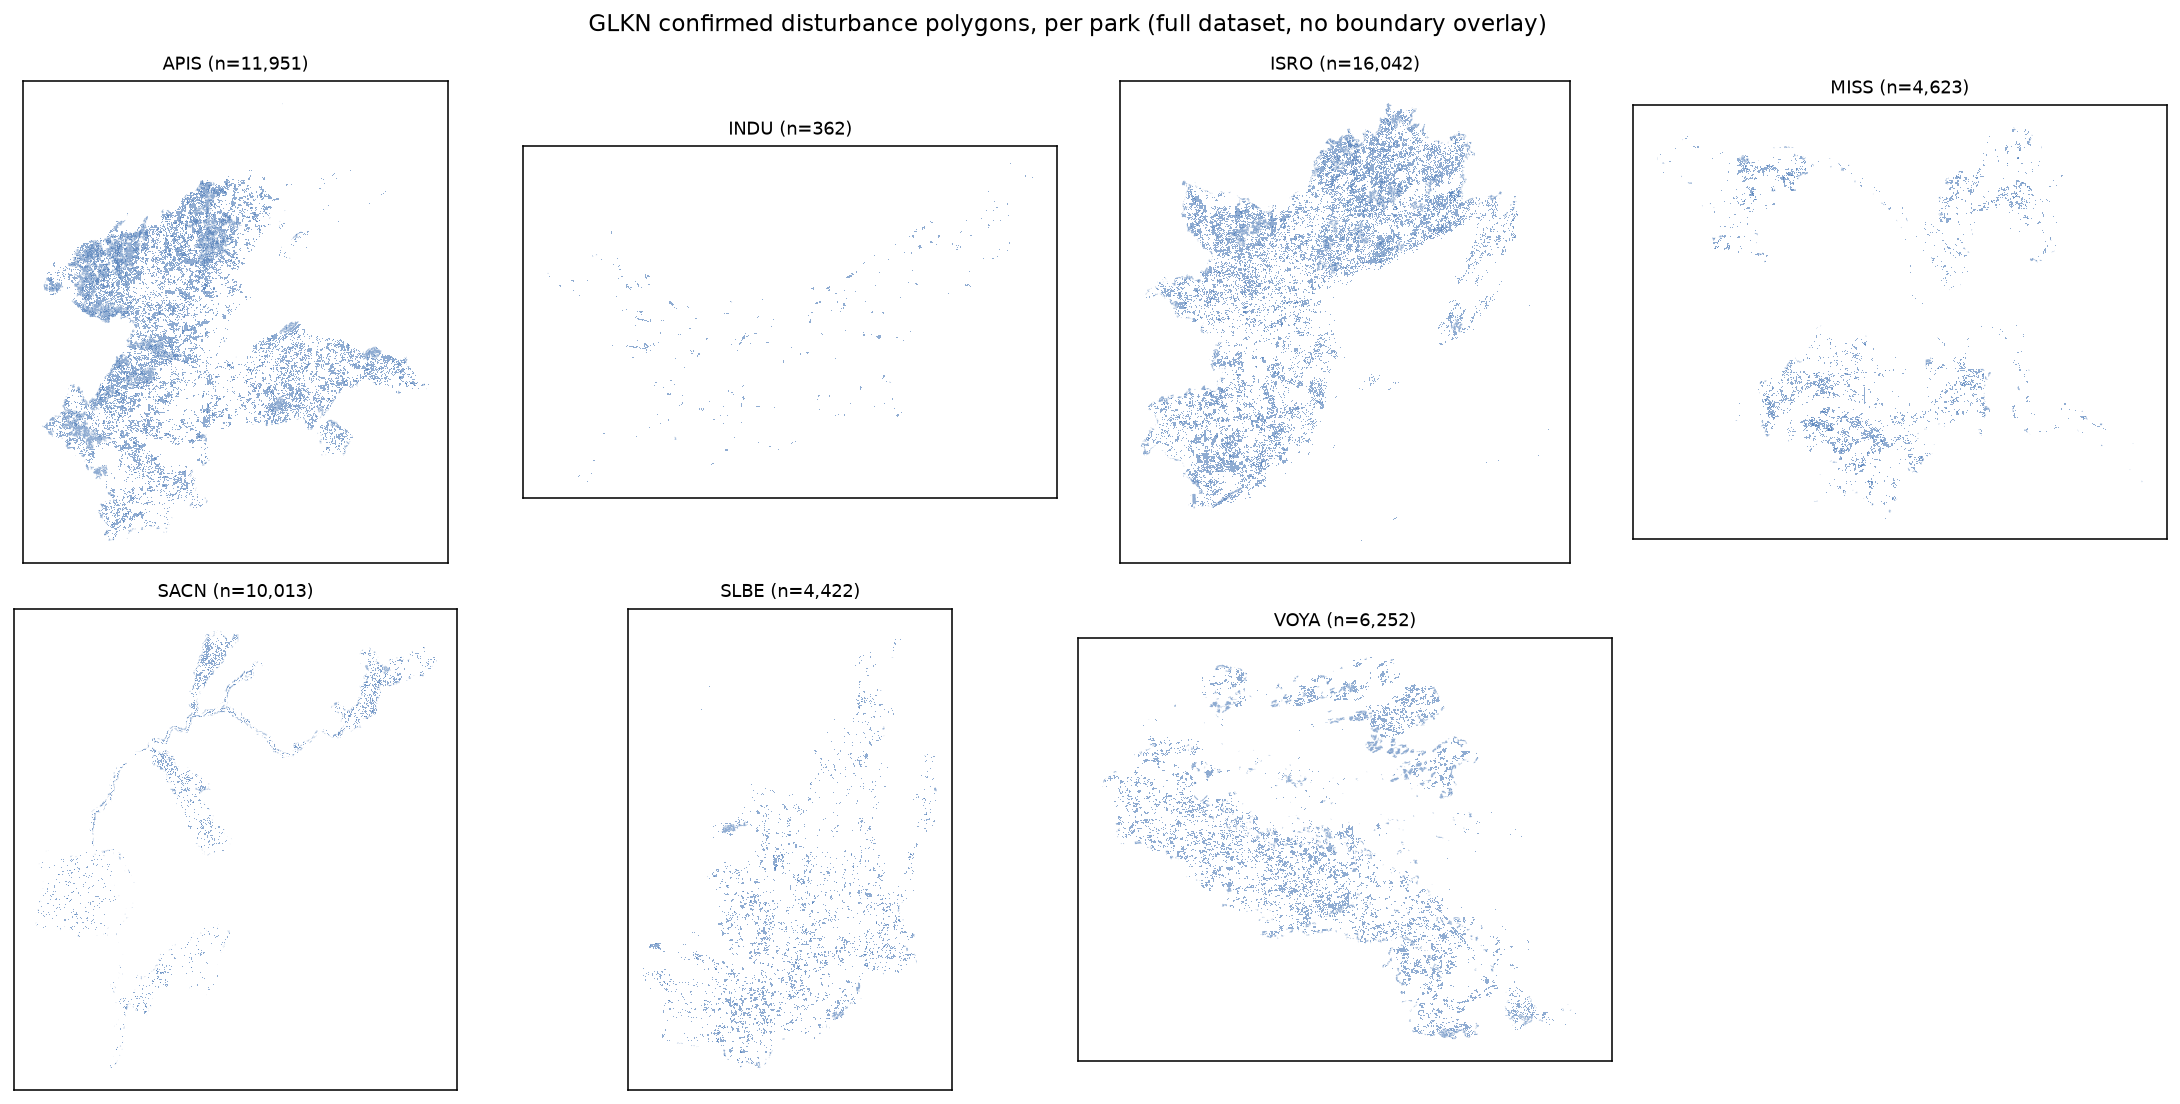
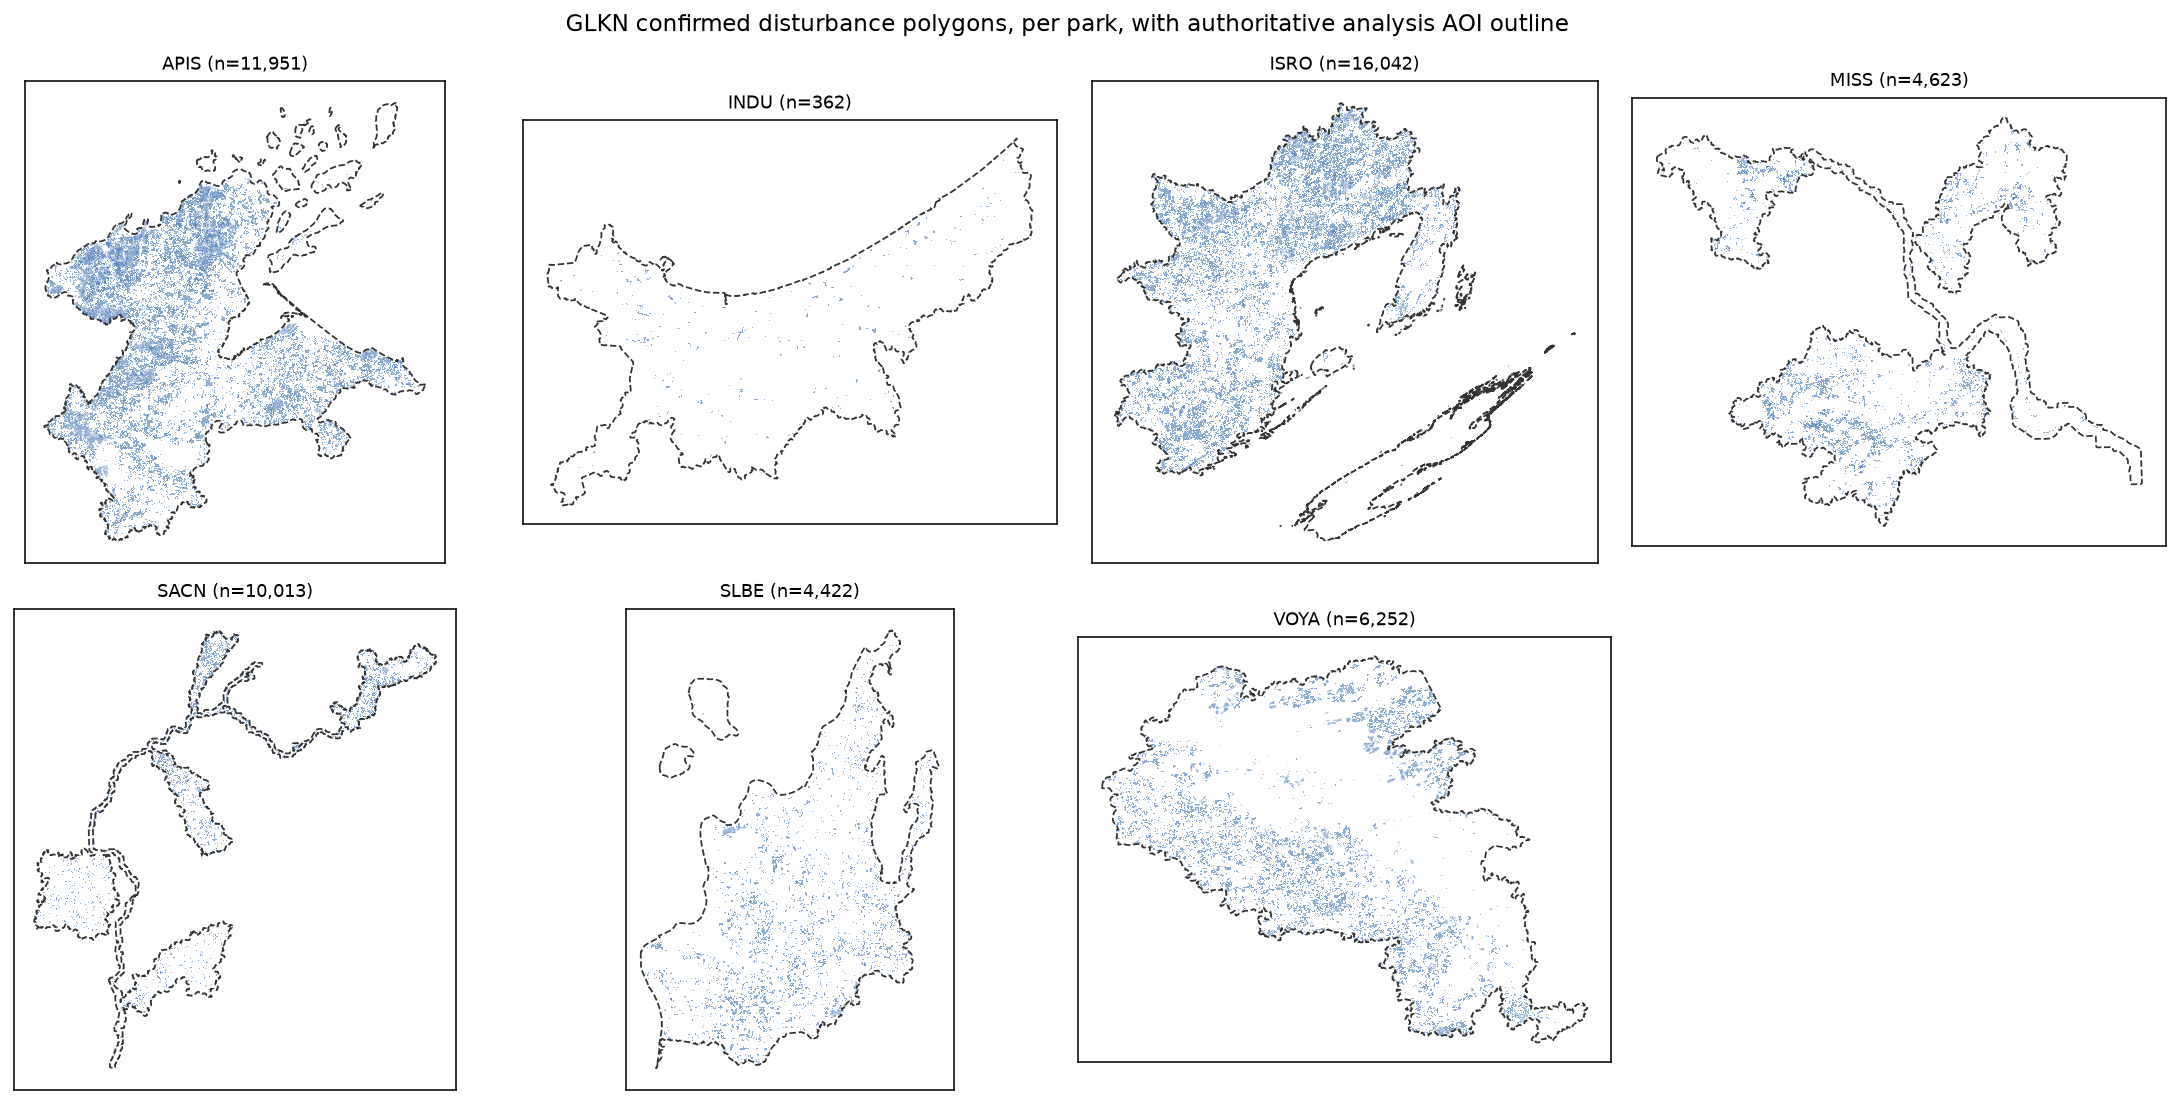
Overlay authoritative analysis AOI outline on NCCN/GLKN polygon maps

diff --git a/src/export_report_assets.py b/src/export_report_assets.py
@@ -33,6 +33,7 @@ import matplotlib.pyplot as plt
 from matplotlib.patches import FancyArrowPatch, Rectangle, Polygon, FancyBboxPatch
 
 from rasterize_common import REPO_ROOT, PROCESSED, QA_DIR
+from qa_aoi_constrained_pixel_comparison import load_nccn_aois, load_glkn_aois
 
 OUT = REPO_ROOT / "outputs" / "report" / "assets"
 OUT.mkdir(parents=True, exist_ok=True)
@@ -131,14 +132,18 @@ def export_nccn():
     n1.to_csv(OUT / "nccn_a2_dataset_summary.csv", index=False)
     print("wrote nccn_a2_dataset_summary.csv")
 
+    nccn_aois = load_nccn_aois(nccn.crs)
+
     fig, axes = plt.subplots(1, 4, figsize=(16, 4.5))
     for ax, park in zip(axes, PARKS):
         sub = nccn[nccn["park_code"] == park]
         sub.plot(ax=ax, color="#4575b4", edgecolor="none", alpha=0.6)
+        gpd.GeoSeries([nccn_aois[park]], crs=nccn.crs).plot(
+            ax=ax, facecolor="none", edgecolor="#333333", linewidth=0.9, linestyle="--")
         ax.set_title(f"{park} (n={len(sub):,})", fontsize=9)
         ax.set_aspect("equal")
         ax.set_xticks([]); ax.set_yticks([])
-    fig.suptitle("NCCN attributed change polygons, per park (full dataset, no boundary overlay)")
+    fig.suptitle("NCCN attributed change polygons, per park, with authoritative analysis AOI outline")
     fig.tight_layout()
     fig.savefig(OUT / "nccn_a6_polygons_by_park_map.png", dpi=140, bbox_inches="tight")
     plt.close(fig)
@@ -183,15 +188,19 @@ def export_glkn():
     g1.to_csv(OUT / "glkn_a2_dataset_summary.csv", index=False)
     print("wrote glkn_a2_dataset_summary.csv")
 
+    glkn_aois = load_glkn_aois(glkn.crs)
+
     fig, axes = plt.subplots(2, 4, figsize=(16, 8))
     for ax, park in zip(axes.flat, GLKN_PARKS):
         sub = glkn[glkn["park_code"] == park]
         sub.plot(ax=ax, color="#4575b4", edgecolor="none", alpha=0.6)
+        gpd.GeoSeries([glkn_aois[park]], crs=glkn.crs).plot(
+            ax=ax, facecolor="none", edgecolor="#333333", linewidth=0.9, linestyle="--")
         ax.set_title(f"{park} (n={len(sub):,})", fontsize=9)
         ax.set_aspect("equal")
         ax.set_xticks([]); ax.set_yticks([])
     axes.flat[-1].axis("off")
-    fig.suptitle("GLKN confirmed disturbance polygons, per park (full dataset, no boundary overlay)")
+    fig.suptitle("GLKN confirmed disturbance polygons, per park, with authoritative analysis AOI outline")
     fig.tight_layout()
     fig.savefig(OUT / "glkn_a6_polygons_by_park_map.png", dpi=140, bbox_inches="tight")
     plt.close(fig)

diff --git a/report/task1_reference_data_assessment.md b/report/task1_reference_data_assessment.md
@@ -114,7 +114,7 @@ The MORA difference is primarily associated with the 2017 fire attribution. The 
 
 ![Figure 1. NCCN attributed landscape-change polygons by subregion](figures/figure1_nccn_polygons_by_subregion.png)
 
-**Figure 1. NCCN attributed landscape-change polygons by subregion.** Full attributed dataset per park (MORA, NOCA, OLYM, LEWI), shown without boundary overlay.
+**Figure 1. NCCN attributed landscape-change polygons by subregion.** Full attributed dataset per park (MORA, NOCA, OLYM, LEWI). The dashed outline is each subregion's authoritative analysis AOI (Table 2), not a park administrative boundary; attributed polygons are not clipped to it and may extend outside, most visibly for MORA (88.2% of attributed area within the AOI; see Section 3.2).
 
 **Table 2. NCCN authoritative study areas and reference-data containment**
 
@@ -185,7 +185,7 @@ As with NCCN, the analysis-area boundaries are used here to document the geograp
 
 ![Figure 4. GLKN confirmed disturbance polygons by subregion](figures/figure4_glkn_polygons_by_subregion.png)
 
-**Figure 4. GLKN confirmed disturbance polygons by subregion.** Full confirmed-disturbance dataset per park, shown without boundary overlay.
+**Figure 4. GLKN confirmed disturbance polygons by subregion.** Full confirmed-disturbance dataset per park. The dashed outline is each subregion's authoritative LandTrendr analysis AOI (Table 4), not a park administrative boundary; attributed polygons are not clipped to it. Containment is essentially complete for all seven parks (100.0%, or 99.99% for ISRO; see Section 4.2), so little to no attributed area falls outside the outline shown.
 
 **Table 4. GLKN LandTrendr analysis areas and reference-data containment**
 
